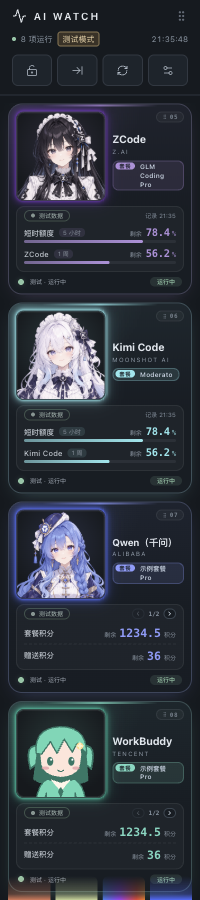
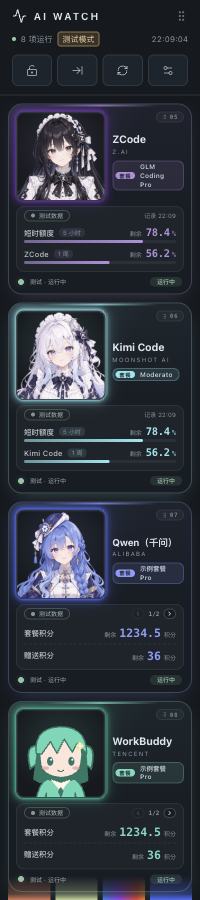
Center anime plan chip labels vertically (v0.14.1)

diff --git a/src/App.tsx b/src/App.tsx
@@ -507,7 +507,7 @@ export default function App() {
         <div className="settings-section"><h3>启动应用</h3><p>点击卡片或收起栏图标打开应用；未找到时可手动选择安装位置。</p>{providers.map(provider => <div className="app-option" key={provider.id}>
           <span>{provider.name}</span><button disabled={choosingApp} onClick={() => void chooseProviderApp(provider)} aria-label={`选择 ${provider.name} 启动应用`}>选择应用</button>
         </div>)}</div>
-        <div className="settings-note"><span className="note-title">本地状态 · v0.14.0</span><p>Codex 使用已有登录每分钟查询官方额度，失败时保留历史值或读取本地记录；Antigravity 同一模型的思考等级合并显示，每 5 秒检查任务，每 30 秒读取额度。刷新按钮会重新读取，联网请求最短间隔 15 秒，失败时自动退避。运行时 LOGO 显示对应颜色的光晕，Codex 待回答或待授权时优先显示红色。</p><p>DeepSeek 使用本设备 Harness 已有登录态查询余额，每分钟更新。换设备后先在 Harness 登录，面板自动识别，无需复制 Key。账号切换或退出后会清除旧余额。</p><p>Claude 自动发现桌面与终端会话，读取桌面用量历史；Free 账号不包含 Code 权限，缺少额度时明确显示不可用。DeepSeek 结合会话记录与进程识别任务活动，黄色表示等待确认。浏览器预览全部使用示例。</p>
+        <div className="settings-note"><span className="note-title">本地状态 · v0.14.1</span><p>Codex 使用已有登录每分钟查询官方额度，失败时保留历史值或读取本地记录；Antigravity 同一模型的思考等级合并显示，每 5 秒检查任务，每 30 秒读取额度。刷新按钮会重新读取，联网请求最短间隔 15 秒，失败时自动退避。运行时 LOGO 显示对应颜色的光晕，Codex 待回答或待授权时优先显示红色。</p><p>DeepSeek 使用本设备 Harness 已有登录态查询余额，每分钟更新。换设备后先在 Harness 登录，面板自动识别，无需复制 Key。账号切换或退出后会清除旧余额。</p><p>Claude 自动发现桌面与终端会话，读取桌面用量历史；Free 账号不包含 Code 权限，缺少额度时明确显示不可用。DeepSeek 结合会话记录与进程识别任务活动，黄色表示等待确认。浏览器预览全部使用示例。</p>
           {displayStatus && <>{providerIds.map((id) => <p key={id}><b>{providers.find(provider => provider.id === id)!.name}</b><br />{displayStatus[id]?.detail}<br />{displayStatus[id]?.activityDetail && <>{displayStatus[id]?.activityDetail}<br /></>}{displayStatus[id]?.observedAt ? `记录时间：${new Date(displayStatus[id]?.observedAt!).toLocaleString('zh-CN')}` : '尚无可用记录'}</p>)}</>}
           <p>{state.desktop ? `桌面版 · 显示缩放 ${state.scaleFactor}×` : '浏览器预览 · 窗口操作请使用桌面版'}</p></div>
       </div>

diff --git a/src/anime.css b/src/anime.css
@@ -82,7 +82,7 @@
 }
 /* Plan chip: a small "套餐" label followed by the tier name. */
 .anime-mode .plan-summary {
-  order: 2; display: flex; flex-wrap: nowrap; align-items: flex-start; gap: 5px;
+  order: 2; display: flex; flex-wrap: nowrap; align-items: center; gap: 5px;
   max-width: 100%; margin-top: clamp(2px, .9vw, 5px);
   padding: 2px 6px 2px 2px; border-radius: 6px;
   border: 1px solid var(--a-tint-border); background: var(--a-tint);

diff --git a/docs/QA.md b/docs/QA.md
@@ -1,10 +1,13 @@
-# v0.13.0 验收记录
+# v0.14.1 验收记录
 
-验收日期：2026-10-03。平台：macOS / Apple Silicon。以下保留既有版本的接入与操作记录。v0.13.0 新增 Codex 官方额度定时查询、历史数字展示，以及 Antigravity 同模型思考等级合并。v0.12.1 优化角色右侧名称 / 来源 / 套餐层级和居中空额度提示。v0.12 新增图标启动、二次元模式与独立图片存储，已验收七张角色原图和 WorkBuddy 占位图。v0.11 新增七模块统一套餐标签、WorkBuddy / 千问积分横排、缺失套餐判断与双尺寸主题检查；保留 v0.10 千问 / WorkBuddy、八模块迁移及读取权限检查；程序化指针交互和原生鼠标命中分别验收。
+验收日期：2026-10-03。平台：macOS / Apple Silicon。以下保留既有版本的接入与操作记录。v0.14.1 修正二次元套餐胶囊的垂直居中。v0.13.0 新增 Codex 官方额度定时查询、历史数字展示，以及 Antigravity 同模型思考等级合并。v0.12.1 优化角色右侧名称 / 来源 / 套餐层级和居中空额度提示。v0.12 新增图标启动、二次元模式与独立图片存储，已验收七张角色原图和 WorkBuddy 占位图。v0.11 新增七模块统一套餐标签、WorkBuddy / 千问积分横排、缺失套餐判断与双尺寸主题检查；保留 v0.10 千问 / WorkBuddy、八模块迁移及读取权限检查；程序化指针交互和原生鼠标命中分别验收。
 
 | 检查 | 结果 |
 | --- | --- |
 | TypeScript 检查与生产构建 | 通过 |
+| v0.14.1 套餐对齐 | 二次元专项通过并正常退出；320×1440 / 200×900、明暗主题下单行和换行档位名称不越界，合成截图目视确认垂直居中 |
+| v0.14.1 原生应用 | 最终 macOS 应用启动、实际套餐与历史标记目视通过；本地数据正常加载，保留二次元模式，检查后恢复首屏 |
+| v0.14.1 包内容 | 36 个主进程 / 前端文件与代码及构建逐字节一致，版本为 0.14.1；ZIP 完整性及其 app.asar 一致性通过 |
 | v0.13 单元检查 | 149 项全部通过；新增官方 stdio 方法约束、身份字段隔离、账号变更 / 退出、失败 / 超时 / 过大响应、去重、刷新间隔、退避、缺失客户端后备及思考等级合并 |
 | v0.13 额度界面 | quotas 专项通过并正常退出；双主题、普通 / 二次元模式下周窗口单行、客户端关闭仍可读取、历史数字保留且无当前进度、登录清空、合并模型名称 / 悬停 / 分页、无溢出 |
 | v0.13 测试模式恢复 | ui 专项通过并正常退出；额度边界、历史标记、任务和等待光晕、配置、刷新隔离、收起与关闭测试恢复仍正常 |
